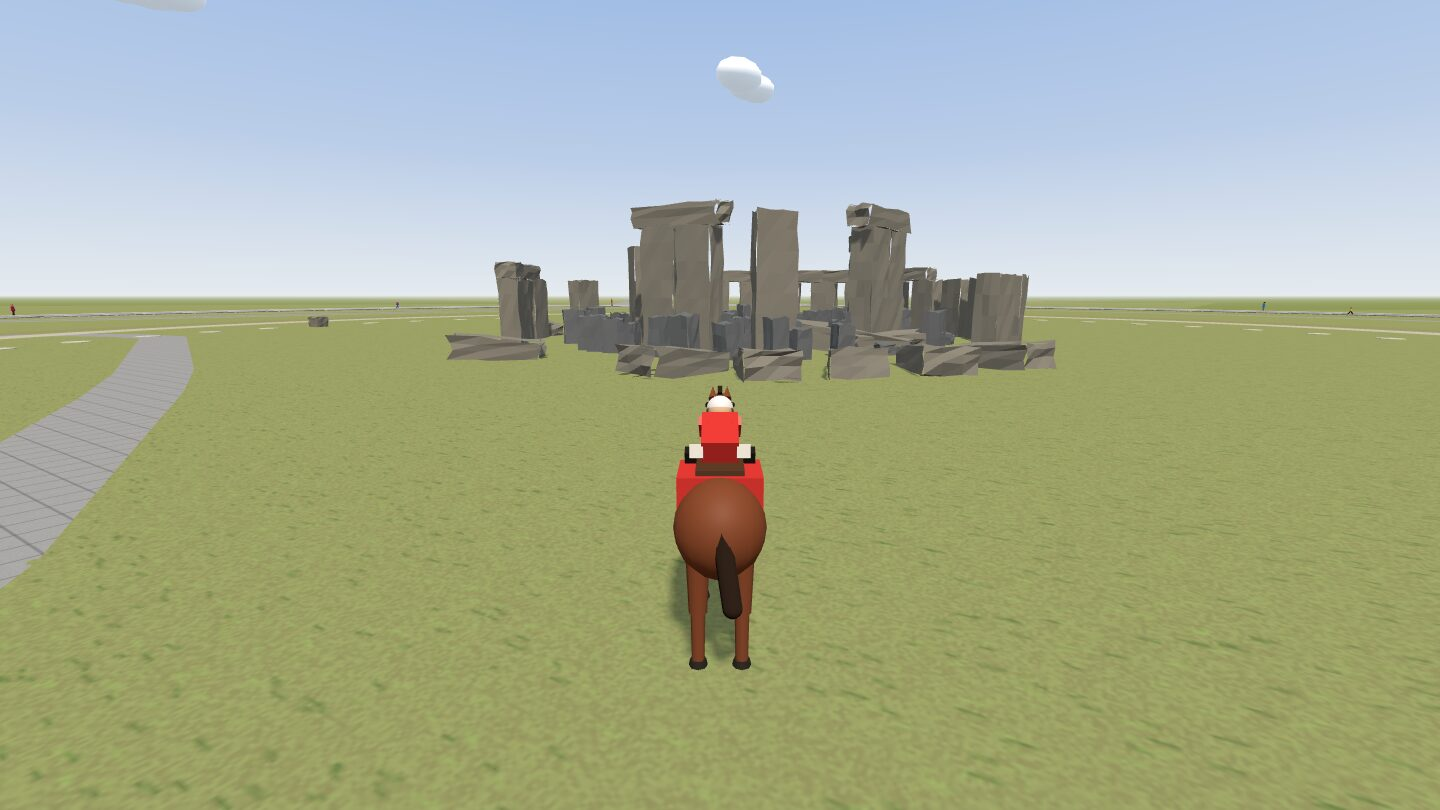
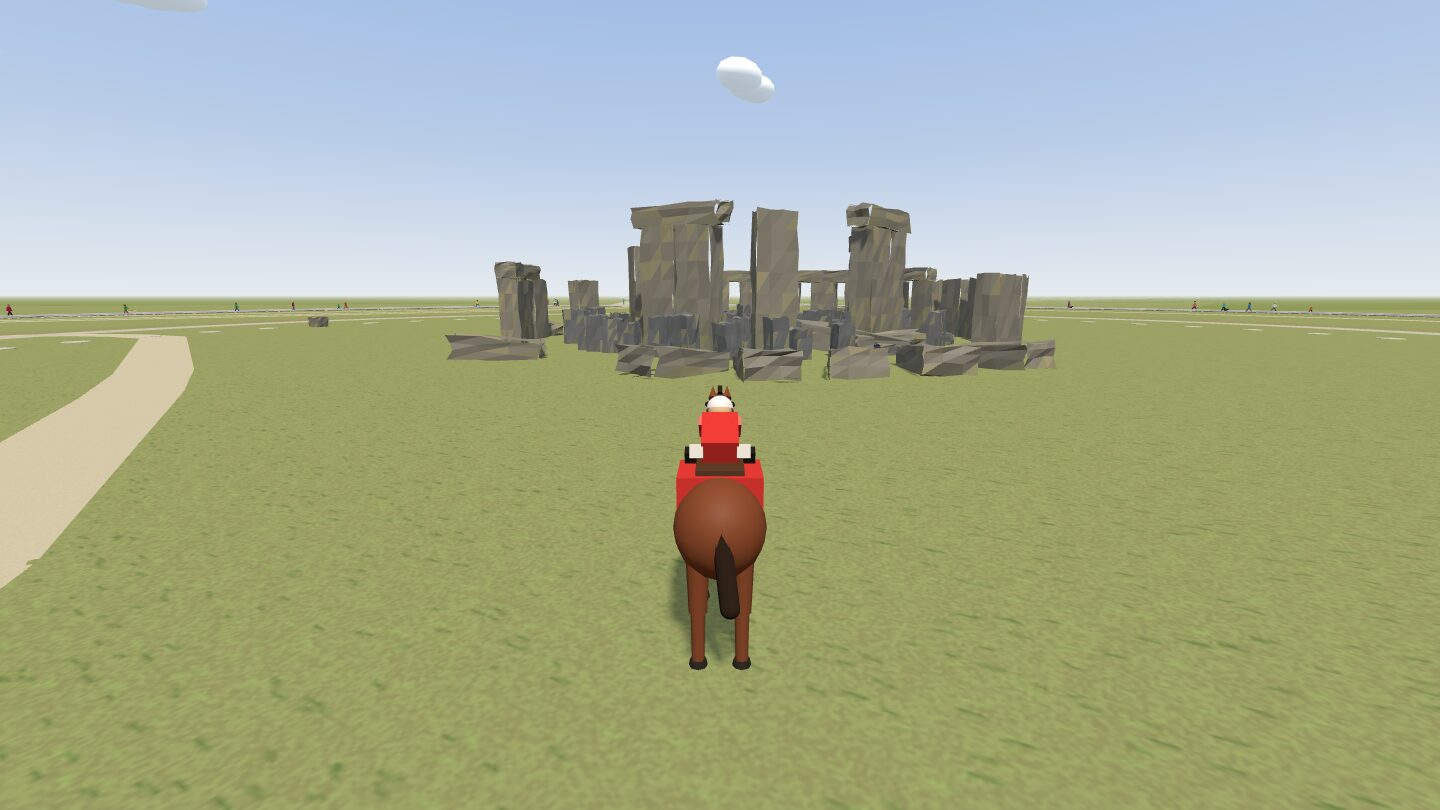
Stonehenge: chalk paths, visitors, weathered stones
- A theme can set pavingJoints: false for a path without slab joints;
  Stonehenge's path and Avenue are pale chalk.
- 60 visitors walk the path round the stones.
- The stones are darker and greener at the foot, with pale lichen
  blotches higher up.

Claude-Session: https://claude.ai/code/session_01HJc18dyDPz3n88jcKFy9XJ

Changed region(s): [[0.0, 0.3704, 0.1562, 0.7407], [0.5, 0.7407, 0.5312, 0.7716], [0.0, 0.3704, 0.0312, 0.4012]]

diff --git a/stonehenge/stones.js b/stonehenge/stones.js
@@ -32,6 +32,17 @@ function block(kit, w, h, d, hex, x, y, z, ry, seed, tilt = 0) {
   }
   geo.computeVertexNormals();
   kit.add(geo, hex, x, y + h / 2, z, tilt, ry, 0);
+  // weathering: darker and greener near the ground (damp), pale lichen blotches higher up, each triangle a little different
+  const col = kit.pieces.at(-1).attributes.color, pos = kit.pieces.at(-1).attributes.position, q = rng(seed * 3 + 1), tmp = new THREE.Color();
+  for (let i = 0; i < col.count; i += 3) {
+    const k = 0.9 + q() * 0.2, lichen = q() < 0.16, low = (pos.getY(i) - y) < h * 0.2;
+    for (let j = 0; j < 3; j++) {
+      tmp.fromBufferAttribute(col, i + j).multiplyScalar(k);
+      if (lichen) tmp.lerp(new THREE.Color('#b3ad7a'), 0.45);
+      if (low) tmp.lerp(new THREE.Color(MOSS), 0.35);
+      col.setXYZ(i + j, tmp.r, tmp.g, tmp.b);
+    }
+  }
 }
 
 // where a point at (u along the axis, v across it) is, east and south of the middle

diff --git a/stonehenge/city.js b/stonehenge/city.js
@@ -60,6 +60,19 @@ export const LOOK = {
   grass: '#8c9a58', // chalk grassland, a little pale
 };
 
+// The visitors: walkers on the path round the stones and along the Avenue.
+export const BUSY = {
+  walkers: 60,
+  cyclists: 0,
+  streets: [
+    { street: 'North Path', weight: 2, free: true },
+    { street: 'East Path', weight: 2, free: true },
+    { street: 'South Path', weight: 2, free: true },
+    { street: 'West Path', weight: 2, free: true },
+    { street: 'The Avenue', weight: 1, free: true },
+  ],
+};
+
 // Places named on the big map when riding about freely: click a name to teleport there.
 const place = (name, e, s, side) => ({ name, x: at(e, s)[0], z: at(e, s)[1], side });
 export const PLACES = [

diff --git a/core/js/scenery.js b/core/js/scenery.js
@@ -299,7 +299,7 @@ function groundMats(ctx) {
     noise(g, w, h, r, 10, [1, 1, 1]);
     g.strokeStyle = ctx.theme.paving ? 'rgba(62,64,68,0.3)' : 'rgba(90,85,78,0.35)';
     g.lineWidth = 2;
-    for (let k = 0; k <= w; k += 32) {
+    for (let k = 0; k <= w && ctx.theme.pavingJoints !== false; k += 32) { // (a theme with pavingJoints: false has an unjointed path, chalk or gravel)
       g.beginPath(); g.moveTo(k, 0); g.lineTo(k, h); g.stroke();
       g.beginPath(); g.moveTo(0, k); g.lineTo(w, k); g.stroke();
     }

diff --git a/stonehenge/races.js b/stonehenge/races.js
@@ -15,6 +15,6 @@ export const RACES = [
     seed: 7400,
     hw: 3,
     bikers: 0,
-    theme: { pavement: 0.8, lampEvery: 1e9, ground: '#9aa266', dirt: '#bdb394', sky: 0x4a94de, horizon: 0xe4eaee },
+    theme: { pavement: 0.8, lampEvery: 1e9, paving: '#d4ccb0', pavingJoints: false, verge: 0xd4ccb0, ground: '#9aa266', dirt: '#c9c0a0', sky: 0x4a94de, horizon: 0xe4eaee },
   },
 ];
